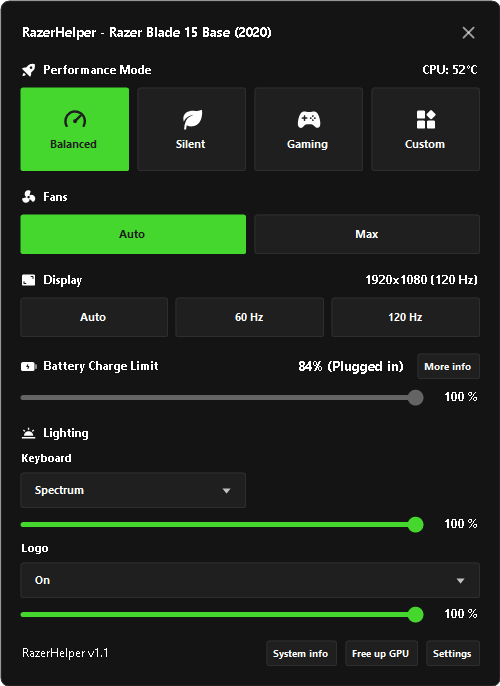
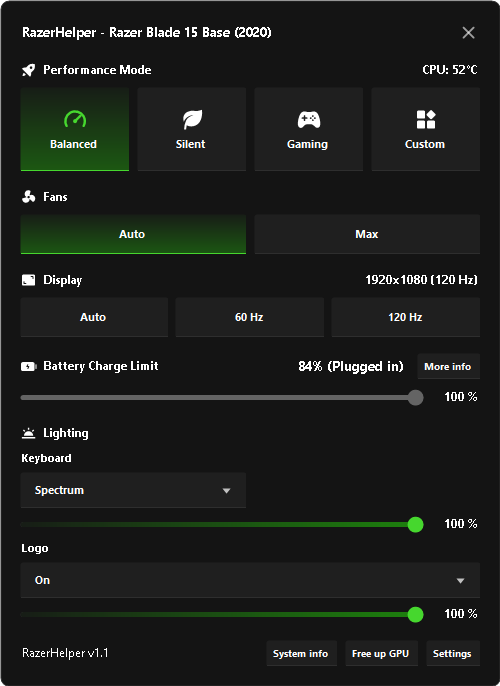
Restyles buttons, sliders and switches with gradients and a bottom line

diff --git a/src/RazerHelper/UI/RoundedButton.cs b/src/RazerHelper/UI/RoundedButton.cs
@@ -4,11 +4,13 @@ using static RazerHelper.UI.UiTheme;
 namespace RazerHelper.UI;
 
 /// <summary>
-/// The app's button: a filled shape with rounded corners and no outline.
-/// WinForms' flat button can only draw square corners, so this paints itself:
-/// the fill (a little lighter on hover, lighter still while pressed), then
-/// the text. Colors come from the ordinary BackColor and ForeColor, so
-/// selecting or greying a button works exactly as with a stock one.
+/// The app's button: a filled shape with rounded corners and a 1.5px line
+/// along the bottom only. WinForms' flat button can only draw square corners,
+/// so this paints itself: the fill (a dark-to-green gradient when selected, a
+/// little lighter while pressed), the bottom line (green when selected or
+/// under the pointer), then the icon and text. A green BackColor is what marks
+/// the selected button, so selecting or greying a button works exactly as with
+/// a stock one.
 /// </summary>
 internal class RoundedButton : Button
 {
@@ -54,29 +56,31 @@ internal class RoundedButton : Button
         graphics.Clear(Parent?.BackColor ?? BackgroundColor);
         graphics.SmoothingMode = SmoothingMode.AntiAlias;
 
-        using (var fill = new SolidBrush(CurrentFill()))
-        using (var path = RoundedPath(new RectangleF(0, 0, Width - 0.5f, Height - 0.5f), S(CornerRadius)))
+        using (var path = RoundedPath(new RectangleF(0, 0, Width, Height), S(CornerRadius)))
         {
-            graphics.FillPath(fill, path);
+            // A selected button fades from dark at the top to green at the
+            // bottom; the others are flat.
+            using (Brush fill = IsGreen
+                ? new LinearGradientBrush(new RectangleF(0, -1, Width, Height + 2), Pressed(GradientDark), Pressed(SelectedGradientEnd), LinearGradientMode.Vertical)
+                : new SolidBrush(Pressed(BackColor)))
+            {
+                graphics.FillPath(fill, path);
+            }
 
-            // An unselected button that can be used gets a green outline under
-            // the pointer, its fill unchanged, so it reads as "can be picked"
-            // without looking already selected.
-            if (ShowsGreenOutline)
-            {
-                using var outline = new Pen(RazerGreen, S(1.5f));
-                using var inner = RoundedPath(new RectangleF(0.75f, 0.75f, Width - 2f, Height - 2f), S(CornerRadius) - 0.75f);
-                graphics.DrawPath(outline, inner);
-            }
-            // Otherwise a quiet 1px outline on an unselected button (a green
-            // one has none), silver while it has keyboard focus (Tab) so focus
-            // is never lost.
-            else if (!IsGreen || (Focused && ShowFocusCues))
-            {
-                using var ring = new Pen(Focused && ShowFocusCues ? Color.Silver : ButtonBorderColor);
-                using var inner = RoundedPath(new RectangleF(0.5f, 0.5f, Width - 1.5f, Height - 1.5f), S(CornerRadius));
-                graphics.DrawPath(ring, inner);
-            }
+            // The only outline is a line along the bottom, following the
+            // corners: green on the selected button and under the pointer,
+            // quiet otherwise, silver while it has keyboard focus (Tab).
+            var stroke = Focused && ShowFocusCues ? Color.Silver
+                : IsGreen && IsUsable || ShowsGreenOutline ? RazerGreen
+                : ButtonBorderColor;
+
+            var clip = graphics.Clip;
+            graphics.SetClip(path, CombineMode.Intersect);
+
+            using (var line = new SolidBrush(stroke))
+                graphics.FillRectangle(line, 0, Height - ButtonStroke, Width, ButtonStroke);
+
+            graphics.Clip = clip;
         }
 
         var textBounds = new Rectangle(
@@ -85,7 +89,13 @@ internal class RoundedButton : Button
             Width - Padding.Horizontal,
             Height - Padding.Vertical);
 
-        var textColor = Enabled ? ForeColor : SystemColors.GrayText;
+        // The text stays white on the selected button's dark gradient.
+        var textColor = !Enabled ? SystemColors.GrayText
+            : ForeColor == OnGreenTextColor ? Color.White
+            : ForeColor;
+
+        // The icon turns green on the selected button and under the pointer.
+        var glyphColor = IsUsable && (IsGreen || _hovered) ? RazerGreen : textColor;
 
         // With a glyph, the glyph and the text are centered together as one
         // group, the glyph drawn in the text's color so it follows selection
@@ -102,7 +112,7 @@ internal class RoundedButton : Button
                     graphics,
                     glyph,
                     new RectangleF(textBounds.Left + (textBounds.Width - StackedGlyphSize) / 2f, top, StackedGlyphSize, StackedGlyphSize),
-                    textColor);
+                    glyphColor);
 
                 var textArea = new Rectangle(textBounds.Left, top + StackedGlyphSize + StackedGlyphGap, textBounds.Width, textHeight);
                 TextRenderer.DrawText(graphics, Text, Font, textArea, textColor,
@@ -114,7 +124,7 @@ internal class RoundedButton : Button
             var groupWidth = Math.Min(GlyphSize + GlyphGap + textWidth, textBounds.Width);
             var left = textBounds.Left + (textBounds.Width - groupWidth) / 2;
 
-            Glyphs.Draw(graphics, glyph, new RectangleF(left, (Height - GlyphSize) / 2f, GlyphSize, GlyphSize), textColor);
+            Glyphs.Draw(graphics, glyph, new RectangleF(left, (Height - GlyphSize) / 2f, GlyphSize, GlyphSize), glyphColor);
 
             textBounds = new Rectangle(left + GlyphSize + GlyphGap, textBounds.Top, groupWidth - GlyphSize - GlyphGap, textBounds.Height);
             TextRenderer.DrawText(graphics, Text, Font, textBounds, textColor,
@@ -200,20 +210,10 @@ internal class RoundedButton : Button
         base.OnMouseUp(mevent);
     }
 
-    // Hover and press only change a button that can be used; one drawn as
-    // unavailable (a hand cursor is what marks the usable ones) stays flat.
-    private Color CurrentFill()
-    {
-        if (!IsUsable)
-            return BackColor;
-
-        if (_pressed)
-            return Lighten(BackColor, 0.22f);
-
-        // Only a green (selected) button lightens under the pointer; the others
-        // keep their fill and show a green outline instead.
-        return _hovered && IsGreen ? Lighten(BackColor, 0.12f) : BackColor;
-    }
+    // Pressing lightens a button that can be used; one drawn as unavailable
+    // (a hand cursor is what marks the usable ones) stays flat. Hover changes
+    // only the bottom line and the icon, never the fill.
+    private Color Pressed(Color color) => _pressed && IsUsable ? Lighten(color, 0.12f) : color;
 
     private bool IsGreen => BackColor.ToArgb() == RazerGreen.ToArgb();
 

diff --git a/src/RazerHelper/UI/ToggleSwitch.cs b/src/RazerHelper/UI/ToggleSwitch.cs
@@ -5,9 +5,9 @@ using static RazerHelper.UI.UiTheme;
 namespace RazerHelper.UI;
 
 /// <summary>
-/// An on/off switch as Windows 11 Settings draws it: a pill with a knob that
-/// sits right when on. On is Razer green with a black knob; off is a quiet
-/// outline with a light one. A change slides the knob across and fades the
+/// An on/off switch: a softly rounded track with a black square knob that
+/// sits right when on. On fades from dark to green with a green outline; off
+/// is flat grey. A change slides the knob across and fades the
 /// colors rather than jumping. Everything else (Checked, events, Space to
 /// toggle) is the ordinary CheckBox.
 /// </summary>
@@ -17,9 +17,10 @@ internal sealed class ToggleSwitch : CheckBox
 
     private static int TrackWidth => S(48);
     private static int TrackHeight => S(24);
-    private static int KnobInset => S(2);
+    private static int KnobInset => S(3);
 
     private static readonly Color OffTrackColor = Color.FromArgb(0x68, 0x68, 0x68);
+    private static readonly Color OffEdgeColor = Color.FromArgb(0x7A, 0x7A, 0x7A);
 
     private readonly System.Windows.Forms.Timer _animation = new() { Interval = 15 };
     private readonly Stopwatch _clock = new();
@@ -96,14 +97,24 @@ internal sealed class ToggleSwitch : CheckBox
             (Height - TrackHeight) / 2f + 0.5f,
             TrackWidth - 1,
             TrackHeight - 1);
-        var radius = track.Height / 2f;
-        var on = Enabled ? RazerGreen : SystemColors.GrayText;
+        var radius = S(3f);
+
+        // Off: a flat grey track. On: dark on the left fading to green on the
+        // right, with a green outline. In between, one blends into the other.
+        var start = Enabled ? GradientDark : SystemColors.GrayText;
+        var end = Enabled ? FillGradientEnd : SystemColors.GrayText;
+        var edge = Enabled ? RazerGreen : SystemColors.GrayText;
 
         using (var path = RoundedButton.RoundedPath(track, radius))
         {
-            // A grey track turning green.
-            using var fill = new SolidBrush(Blend(OffTrackColor, on, _position));
-            graphics.FillPath(fill, path);
+            using (var fill = new LinearGradientBrush(RectangleF.Inflate(track, 1, 0),
+                Blend(OffTrackColor, start, _position), Blend(OffTrackColor, end, _position), LinearGradientMode.Horizontal))
+            {
+                graphics.FillPath(fill, path);
+            }
+
+            using (var outline = new Pen(Blend(OffEdgeColor, edge, _position)))
+                graphics.DrawPath(outline, path);
 
             // Only keyboard focus (Tab) shows a ring, as on the buttons.
             if (Focused && ShowFocusCues)
@@ -114,14 +125,15 @@ internal sealed class ToggleSwitch : CheckBox
             }
         }
 
-        // The knob slides from left to right, always black.
+        // The knob, a black square with softened corners, slides from left to right.
         var knob = TrackHeight - 2 * KnobInset;
         var left = track.Left + KnobInset;
         var right = track.Right - KnobInset - knob;
         var knobBounds = new RectangleF(left + (right - left) * _position, track.Top + (track.Height - knob) / 2f, knob, knob);
 
         using var knobFill = new SolidBrush(Color.Black);
-        graphics.FillEllipse(knobFill, knobBounds);
+        using var knobShape = RoundedButton.RoundedPath(knobBounds, S(2f));
+        graphics.FillPath(knobFill, knobShape);
     }
 
     private static Color Blend(Color from, Color to, float amount) => Color.FromArgb(

diff --git a/src/RazerHelper/UI/Forms/ProfileToast.cs b/src/RazerHelper/UI/Forms/ProfileToast.cs
@@ -106,20 +106,28 @@ internal sealed class ProfileToast : Form
         var graphics = e.Graphics;
         graphics.Clear(BackColor);
 
-        // The icon in a green square when the mode is on, grey when refused.
+        // The icon in a square like the selected mode button when the mode is
+        // on (dark to green, a green line along the bottom), grey when refused.
         var padding = (Height - IconBox) / 2;
         var box = new Rectangle(padding, padding, IconBox, IconBox);
 
-        using (var fill = new SolidBrush(_applied ? RazerGreen : TrackColor))
+        using (Brush fill = _applied
+            ? new System.Drawing.Drawing2D.LinearGradientBrush(Rectangle.Inflate(box, 0, 1), GradientDark, SelectedGradientEnd, System.Drawing.Drawing2D.LinearGradientMode.Vertical)
+            : new SolidBrush(TrackColor))
         using (var shape = RoundedButton.RoundedPath(box, S(2)))
+        using (var line = new SolidBrush(_applied ? RazerGreen : ButtonBorderColor))
         {
             graphics.SmoothingMode = System.Drawing.Drawing2D.SmoothingMode.AntiAlias;
             graphics.FillPath(fill, shape);
+
+            graphics.SetClip(shape);
+            graphics.FillRectangle(line, box.X, box.Bottom - ButtonStroke, box.Width, ButtonStroke);
+            graphics.ResetClip();
         }
 
         var glyph = S(24);
         Glyphs.Draw(graphics, _icon, new RectangleF(box.X + (IconBox - glyph) / 2f, box.Y + (IconBox - glyph) / 2f, glyph, glyph),
-            _applied ? OnGreenTextColor : Color.White);
+            _applied ? RazerGreen : Color.White);
 
         // The name above the status, both beside the icon.
         var textLeft = box.Right + S(12);

diff --git a/src/RazerHelper/UI/ThemedSlider.cs b/src/RazerHelper/UI/ThemedSlider.cs
@@ -210,7 +210,18 @@ internal sealed class ThemedSlider : Control
         // Track, the full width with round ends, then the filled part up to the thumb.
         var top = TrackY - TrackHeight / 2f;
         FillPill(graphics, TrackBrush, new RectangleF(0, top, Width - 1, TrackHeight));
-        FillPill(graphics, accent, new RectangleF(0, top, thumbX, TrackHeight));
+        // The filled part fades from dark at the left to green at the thumb.
+        var filled = new RectangleF(0, top, thumbX, TrackHeight);
+
+        if (IsLive && filled.Width > 0)
+        {
+            using var gradient = new LinearGradientBrush(RectangleF.Inflate(filled, 1, 0), GradientDark, FillGradientEnd, LinearGradientMode.Horizontal);
+            FillPill(graphics, gradient, filled);
+        }
+        else
+        {
+            FillPill(graphics, accent, filled);
+        }
 
         // Thumb: a green dot, with a white ring when the keyboard has focus.
         var thumb = new Rectangle(thumbX - ThumbRadius, TrackY - ThumbRadius, ThumbRadius * 2, ThumbRadius * 2);

diff --git a/src/RazerHelper/UI/UiTheme.cs b/src/RazerHelper/UI/UiTheme.cs
@@ -45,6 +45,18 @@ internal static class UiTheme
     public static readonly Color BorderColor = Color.FromArgb(0x2E, 0x2E, 0x2E);
     public static readonly Color RazerGreen = Color.FromArgb(0x46, 0xD7, 0x2E);
 
+    /// <summary>Where every gradient starts: the dark end, nearly the button color with a hint of green.</summary>
+    public static readonly Color GradientDark = Color.FromArgb(0x17, 0x1C, 0x16);
+
+    /// <summary>The bottom of a selected button's top-to-bottom gradient.</summary>
+    public static readonly Color SelectedGradientEnd = Color.FromArgb(0x1C, 0x59, 0x12);
+
+    /// <summary>The bright end of a slider's, switch's or bar's left-to-right gradient.</summary>
+    public static readonly Color FillGradientEnd = Color.FromArgb(0x1D, 0x80, 0x0D);
+
+    /// <summary>The thin line along the bottom of every button.</summary>
+    public static float ButtonStroke => S(1.5f);
+
     /// <summary>The text on a green (selected) button.</summary>
     public static readonly Color OnGreenTextColor = Color.FromArgb(0x1E, 0x1E, 0x1E);
 

diff --git a/src/RazerHelper/UI/BentoGrid.cs b/src/RazerHelper/UI/BentoGrid.cs
@@ -195,7 +195,9 @@ internal sealed class BentoGrid : TableLayoutPanel
 
                 if (filled.Width >= S(6))
                 {
-                    using var level = new SolidBrush(spec.BarColor ?? RazerGreen);
+                    // Dark on the left, the level's color at its end, as on the sliders.
+                    var end = spec.BarColor is { } color && color.ToArgb() != RazerGreen.ToArgb() ? color : FillGradientEnd;
+                    using var level = new LinearGradientBrush(RectangleF.Inflate(filled, 1, 0), GradientDark, end, LinearGradientMode.Horizontal);
                     using var levelShape = RoundedButton.RoundedPath(filled, S(3));
                     graphics.FillPath(level, levelShape);
                 }

diff --git a/src/RazerHelper/UI/Forms/CustomBoostForm.cs b/src/RazerHelper/UI/Forms/CustomBoostForm.cs
@@ -234,7 +234,9 @@ internal sealed class CustomBoostForm : Form
             name.Margin = new Padding(0, 0, 0, S(8));
             table.Controls.Add(name, index, 0);
 
+            // The reading in grey under its white name, as in the design.
             values[index] = CreateStatLabel(DesignFont(12));
+            values[index].ForeColor = SubtleTextColor;
             values[index].Text = HardwareStatsText.NoReading;
             table.Controls.Add(values[index], index, 1);
         }

diff --git a/CHANGELOG.md b/CHANGELOG.md
@@ -30,6 +30,7 @@ Changes made in this fork by [jdsgnrinfo](https://github.com/jdsgnrinfo) on top 
 - The charge limit slider shows the chosen limit at its right, like the lighting sliders.
 
 - **Dark tray menu:** the tray icon's right-click menu matches the app: dark rounded panel, white text, a highlight across the whole width under the pointer.
+- **Gradients and bottom lines:** buttons keep only a 1.5px line along the bottom (green when selected or under the pointer); the selected button fades from dark to green, with its icon in green; sliders, switches and level bars fill with a dark-to-green gradient; switches have a square knob.
 
 ### New windows
 
